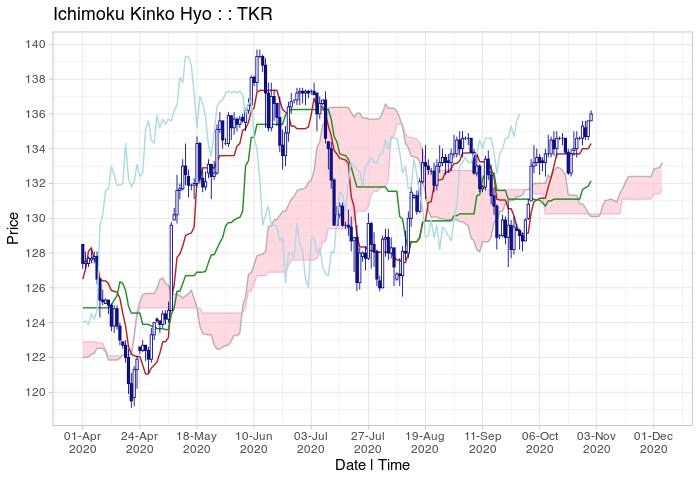
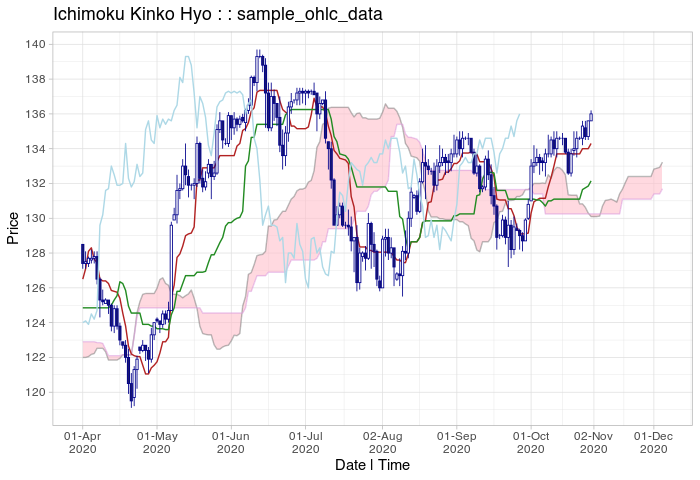
Build 0.3.51.3 release

diff --git a/NEWS.md b/NEWS.md
@@ -1,15 +1,24 @@
-# ichimoku 0.3.51.2
+# ichimoku 0.3.51.3
 
-* Re-export functions for working with ichimoku objects: from the 'zoo' package `index()`, `coredata()`, and from the 'xts' package `xts()`.
-* `archive()` merges functionality of `ichimoku_write()` and `ichimoku_read()`. Fixed cases of the timezone of restored objects not matching the original.
+* **New features:**
+* `archive()` replaces `ichimoku_write()` and `ichimoku_read()` by merging their functionality.
+* Re-export functions for working with ichimoku objects: `index()`, `coredata()` from 'zoo', and `xts()` from the 'xts' package.
+
+* **Updates:**
+* Charts of daily or lower frequency now have prettier and more usefully-aligned breaks using custom algorithm.
+* Improved handling of timezones. OANDA data and charts will now show correctly in the user timezone.
+* Fixed cases of the timezone of restored objects from Arrow archives not matching the original.
+* Fixed bug which caused `oanda()` not to return weekly data in certain cases.
+* Fixed bug in trade success statistics for short strategies returned by `strat()`.
 * Linking to 'cpp11' package, removed vendored code.
+* Added 'stats' R core package dependency for improved performance in strat functions.
 
 # ichimoku 0.3.51
 
 * **ichimoku object specification release (version 1):**
 * Please upgrade to the latest version of ichimoku.
 * ichimoku objects created in versions prior to 0.3.51 will no longer work correctly with newer versions of the package.
-* `ichimoku()` can be called on previous objects to re-create the objects according to the v1 specification.
+* `ichimoku()` can be called on previously-created objects to re-create the objects according to the v1 specification.
 
 # ichimoku 0.3.5
 

diff --git a/README.md b/README.md
@@ -36,7 +36,7 @@ Install the released version of ichimoku from CRAN:
 install.packages("ichimoku")
 ```
 
-Or the latest development version from rOpenSci R-universe binaries:
+Or the latest development version from rOpenSci R-universe:
 
 ``` r
 install.packages("ichimoku", repos = "https://shikokuchuo.r-universe.dev")
@@ -45,7 +45,7 @@ install.packages("ichimoku", repos = "https://shikokuchuo.r-universe.dev")
 Or the latest development version from the Github source:
 
 ``` r
-devtools::install_github("shikokuchuo/ichimoku")
+remotes::install_github("shikokuchuo/ichimoku")
 ```
 
 **Note:** ichimoku object specification released 2021-08-08 - *please
